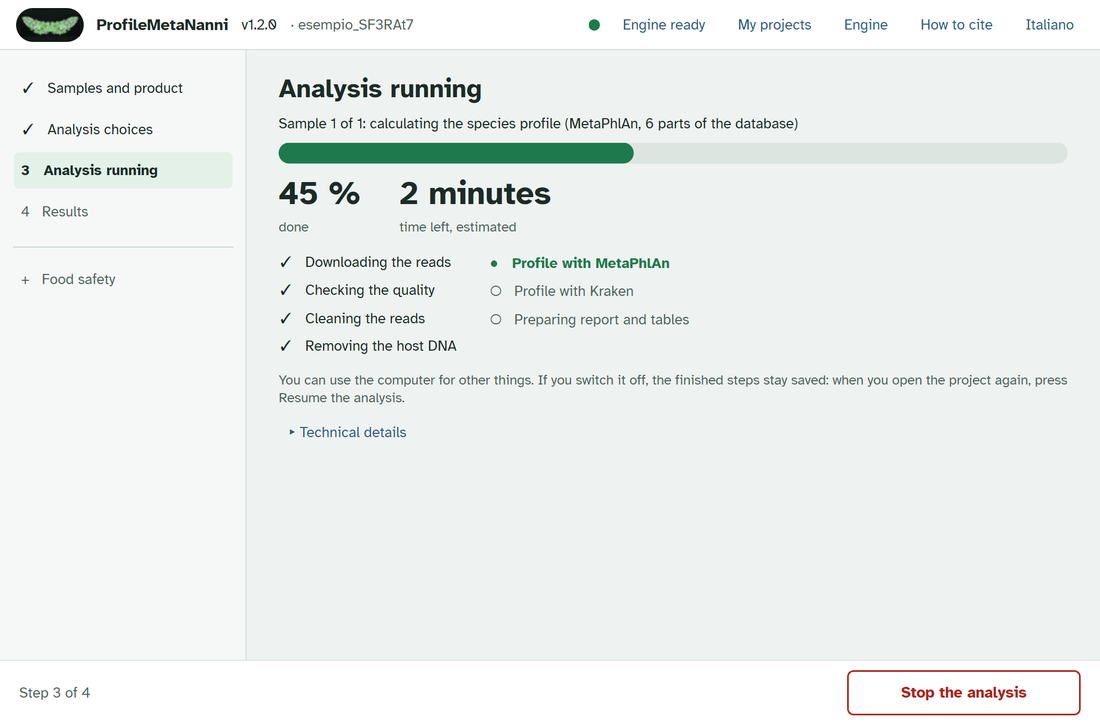
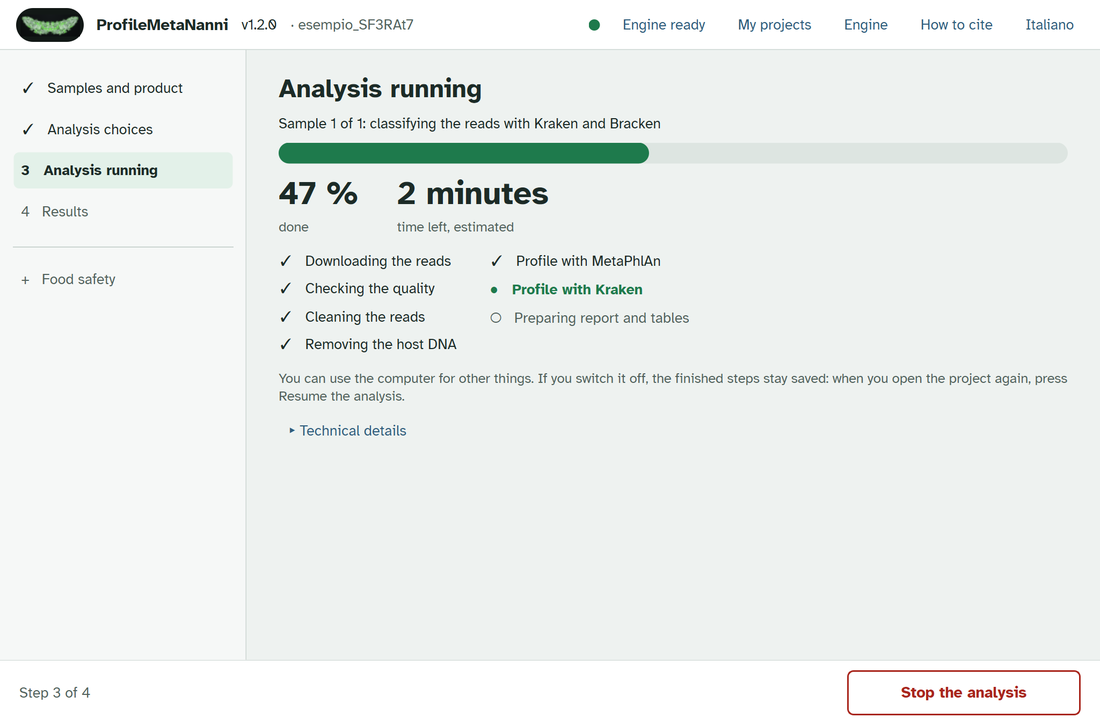
docs(guide): example guides on the clean 1.2.0 runs and the refit estimate
Real times from the clean runs (IT 3:47, EN 3:20; the first runs overlapped
another test suite on the same CPU). Estimate from engine 8d175e6: about
4 minutes (MetaPhlAn 66 s, Kraken 2 min), images 02 and 03 retaken from it.
Report page and images 01, 04-08 from the engine with the Kraken note fix.
Results unchanged (byte-identical profiles).

diff --git a/docs/guida_analisi_esempio_EN.md b/docs/guida_analisi_esempio_EN.md
@@ -33,7 +33,7 @@ On the **My projects** page, in the box **Want to try right away?**, press **Try
 The recommended choices are already selected: **Full database** for Kraken and **Bacteria, archaea and yeasts**. You do not need to change anything. At the bottom of the page, **Before starting** shows what the engine expects for this PC:
 
 - samples: 1, mini_SF3RAt7, 0.2 million read pairs;
-- estimated time: about 5 minutes (MetaPhlAn 2 minutes, Kraken 72 seconds);
+- estimated time: about 4 minutes (MetaPhlAn 66 seconds, Kraken 2 minutes);
 - space needed: less than 1 GB.
 
 Press **Start the analysis**.
@@ -44,9 +44,9 @@ Press **Start the analysis**.
 
 The page **Analysis running** shows the step, the percentage done and the time left. The steps are always the same: download or read the files, quality check, cleaning of the reads, removal of the host DNA, profile with MetaPhlAn, profile with Kraken, report and tables. You can use the PC for something else meanwhile. If you switch it off, the steps already finished are kept: open the project again and press **Resume the analysis**.
 
-On the test PC the analysis took 6 minutes 45 seconds (Italian run) and 6 minutes 13 seconds (English run), a little more than the estimate of about 5 minutes. The longer steps were Kraken (2 minutes 56 seconds and 2 minutes 22 seconds, against 72 seconds) and the removal of the host DNA (1 minute 3 seconds and 1 minute 16 seconds, against 20 seconds).
+On the test PC the analysis took 3 minutes 47 seconds (Italian run) and 3 minutes 20 seconds (English run). The longest steps were Kraken (2 minutes 6 seconds and 1 minute 37 seconds) and MetaPhlAn (58 and 62 seconds); the removal of the host DNA took 27 seconds. The estimate was about 4 minutes.
 
-![Analysis running: profile with MetaPhlAn, 45 % done](guida_esempio/en/03_esecuzione.png)
+![Analysis running: profile with Kraken, 47 % done](guida_esempio/en/03_esecuzione.png)
 
 When it ends, press **See the results**.
 

diff --git a/docs/guida_analisi_esempio_IT.md b/docs/guida_analisi_esempio_IT.md
@@ -33,7 +33,7 @@ Nella pagina **I miei progetti**, nel riquadro **Vuoi provare subito?**, premi *
 Le scelte consigliate sono già pronte: **Database completo** per Kraken e **Batteri, archei e lieviti**. Non serve cambiare nulla. In fondo alla pagina, **Prima di partire** dice che cosa si aspetta il motore su questo PC:
 
 - campioni: 1, mini_SF3RAt7, 0,2 milioni di coppie di read;
-- tempo stimato: circa 5 minuti (MetaPhlAn 2 minuti, Kraken 72 secondi);
+- tempo stimato: circa 4 minuti (MetaPhlAn 66 secondi, Kraken 2 minuti);
 - spazio che serve: meno di 1 GB.
 
 Premi **Avvia l'analisi**.
@@ -44,7 +44,7 @@ Premi **Avvia l'analisi**.
 
 La pagina **Analisi in corso** mostra il passo, la percentuale fatta e il tempo che manca. I passi sono sempre gli stessi: scarico o lettura dei file, controllo della qualità, pulizia delle read, rimozione del DNA dell'ospite, profilo con MetaPhlAn, profilo con Kraken, referto e tabelle. Intanto puoi usare il PC per altro. Se lo spegni, i passi già finiti restano salvati: riapri il progetto e premi **Riprendi l'analisi**.
 
-Sul PC di prova l'analisi è durata 6 minuti e 45 secondi (corsa in italiano) e 6 minuti e 13 secondi (corsa in inglese), un po' più della stima di circa 5 minuti. I passi più lunghi sono stati Kraken (2 minuti e 56 secondi e 2 minuti e 22 secondi, contro 72 secondi) e la rimozione del DNA dell'ospite (1 minuto e 3 secondi e 1 minuto e 16 secondi, contro 20 secondi).
+Sul PC di prova l'analisi è durata 3 minuti e 47 secondi (corsa in italiano) e 3 minuti e 20 secondi (corsa in inglese). I passi più lunghi sono stati Kraken (2 minuti e 6 secondi e 1 minuto e 37 secondi) e MetaPhlAn (58 e 62 secondi); la rimozione del DNA dell'ospite è durata 27 secondi. La stima era di circa 4 minuti.
 
 ![Analisi in corso: profilo con MetaPhlAn, 45 % fatto](guida_esempio/it/03_esecuzione.png)
 
